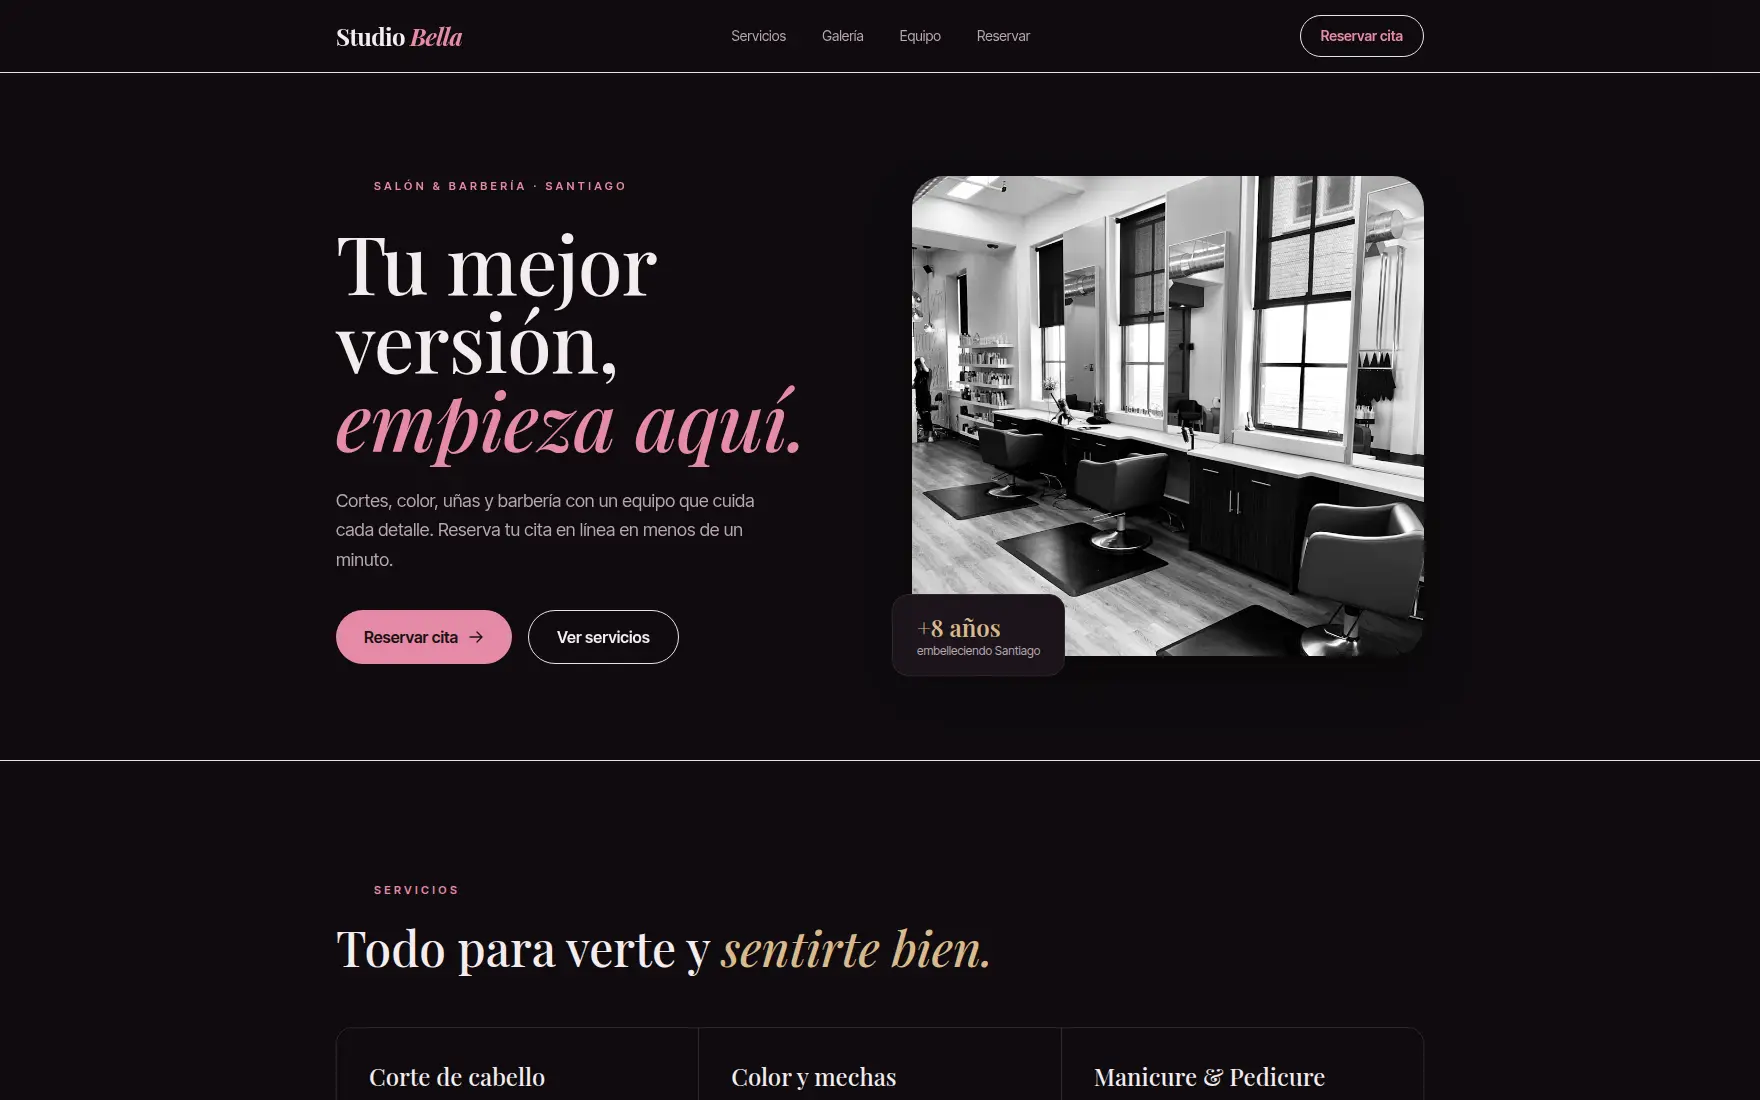
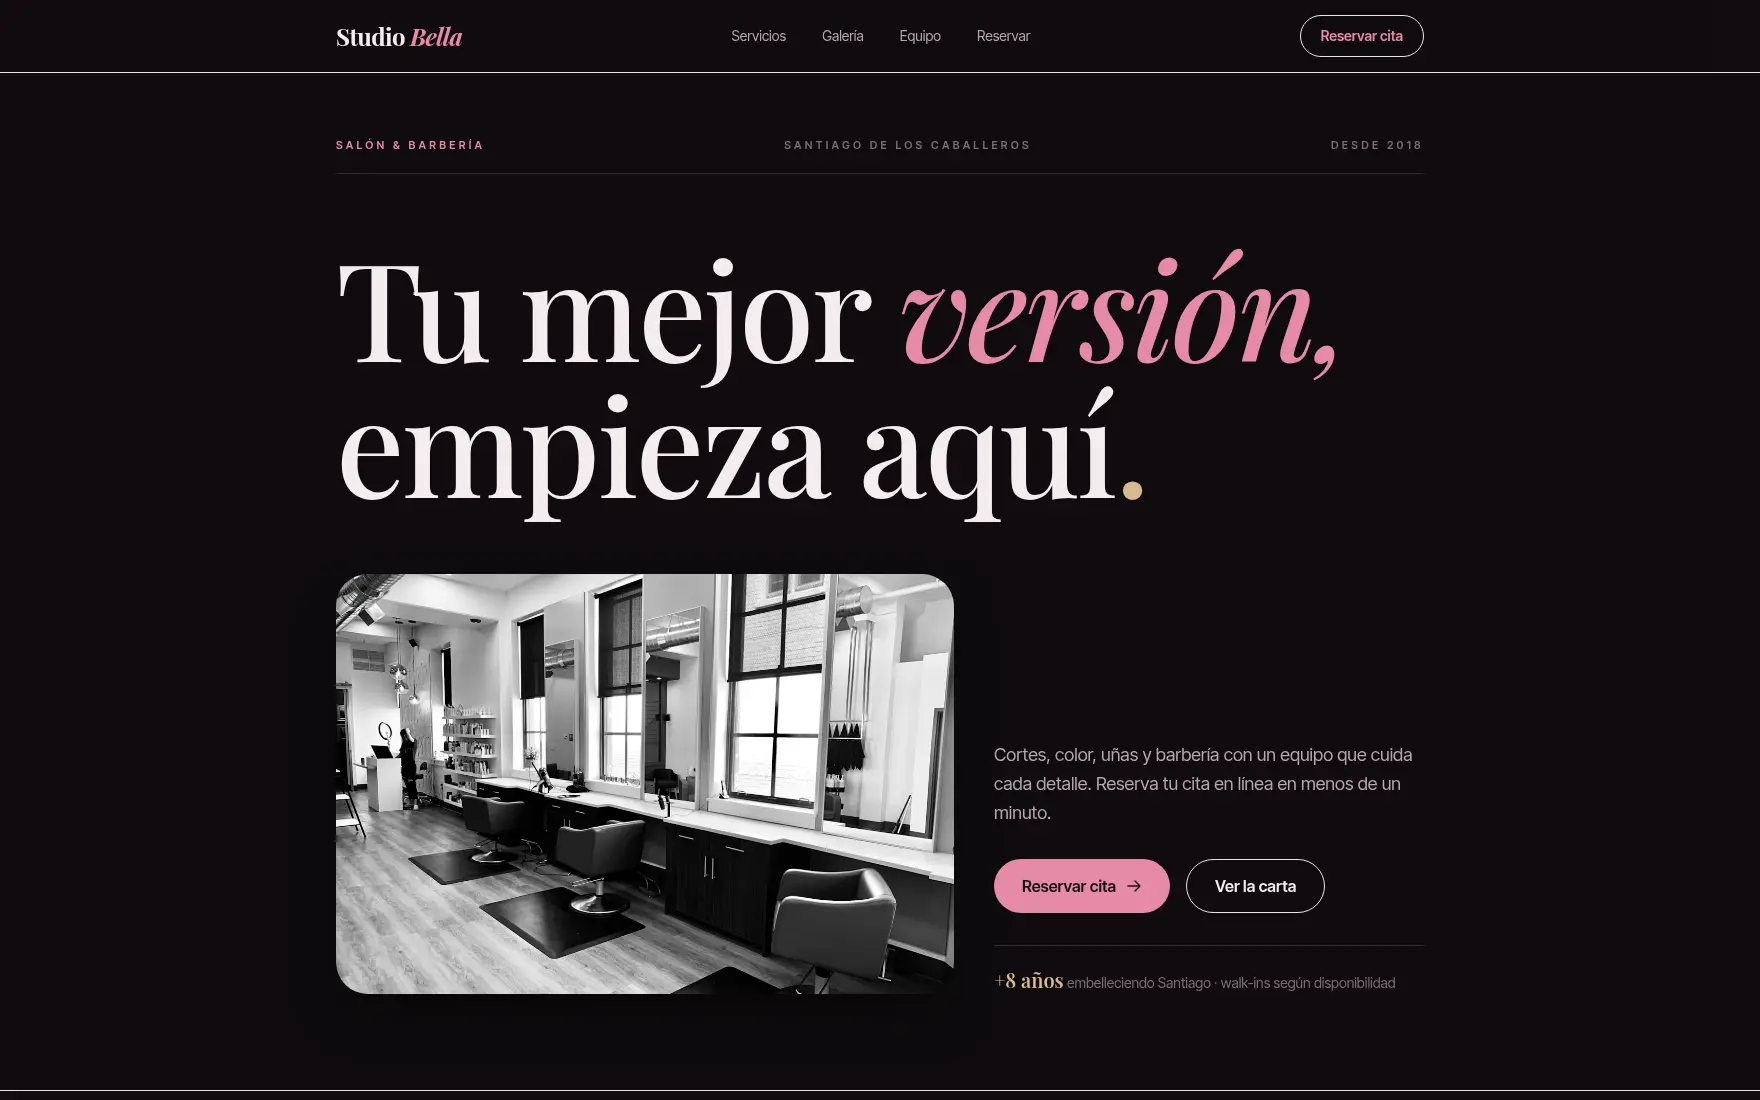
feat: salon Studio Bella rediseñado con silueta editorial (titular gigante + carta de servicios + tira de galeria) para romper el gemelo con AutoPro

diff --git a/app/demos/salon/page.tsx b/app/demos/salon/page.tsx
@@ -56,7 +56,7 @@ const EQUIPO: [string, string, string][] = [
 
 const GALERIA = [
   "https://images.unsplash.com/photo-1521590832167-7bcbfaa6381f?w=1000&q=80",
-  "https://images.unsplash.com/photo-1599387737838-626d2e3d5d3a?w=700&q=80",
+  "https://images.unsplash.com/photo-1604654894610-df63bc536371?w=700&q=80",
   "https://images.unsplash.com/photo-1562322140-8baeececf3df?w=700&q=80",
   "https://images.unsplash.com/photo-1487412947147-5cebf100ffc2?w=700&q=80",
 ];
@@ -117,42 +117,46 @@ export default function Page() {
         </div>
       </header>
 
-      {/* ── Hero ───────────────────────────────────────────────────────── */}
+      {/* ── Hero editorial: meta + titular a todo lo ancho + fila foto/copy ── */}
       <section id="inicio" className="relative overflow-hidden">
         <div className="pointer-events-none absolute -right-32 -top-40 h-[460px] w-[460px] rounded-full bg-[var(--rose)]/10 blur-[130px]" />
-        <div className="relative mx-auto max-w-6xl px-5 py-16 sm:px-8 md:py-24">
-          <div className="grid items-center gap-12 lg:grid-cols-2 lg:gap-16">
-            <div>
-              <div className="rise d1"><Eyebrow>Salón & Barbería · Santiago</Eyebrow></div>
-              <h1 className="rise d2 display mt-7 text-5xl font-medium leading-[0.98] tracking-[-0.01em] text-[var(--cream)] md:text-[5rem]">
-                Tu mejor versión,
-                <br />
-                <span className="italic text-[var(--rose)]">empieza aquí.</span>
-              </h1>
-              <p className="rise d3 mt-7 max-w-md text-lg leading-relaxed text-[var(--muted)]">
+        <div className="relative mx-auto max-w-6xl px-5 pb-20 pt-12 sm:px-8 md:pb-24 md:pt-16">
+          <div className="rise d1 flex items-center justify-between gap-4 border-b border-[var(--line)] pb-5 text-[0.68rem] font-semibold uppercase tracking-[0.3em] text-[var(--faint)]">
+            <span className="text-[var(--rose)]">Salón & Barbería</span>
+            <span className="hidden sm:block">Santiago de los Caballeros</span>
+            <span>Desde 2018</span>
+          </div>
+          <h1 className="rise d2 display mt-12 text-6xl font-medium leading-[0.95] tracking-[-0.02em] text-[var(--cream)] sm:text-7xl md:mt-16 md:text-[7rem] lg:text-[8.5rem]">
+            Tu mejor <span className="italic text-[var(--rose)]">versión,</span>
+            <br />
+            empieza aquí<span className="text-[var(--gold)]">.</span>
+          </h1>
+          <div className="mt-12 grid gap-10 md:mt-16 md:grid-cols-12 md:items-end">
+            <div className="rise d2 md:col-span-7">
+              <img
+                src="https://images.unsplash.com/photo-1560066984-138dadb4c035?w=1200&q=80"
+                alt="Interior del salón de belleza"
+                className="h-[300px] w-full rounded-[2rem] object-cover shadow-2xl shadow-black/50 md:h-[420px]"
+              />
+            </div>
+            <div className="rise d3 md:col-span-5">
+              <p className="text-lg leading-relaxed text-[var(--muted)]">
                 Cortes, color, uñas y barbería con un equipo que cuida cada detalle. Reserva tu cita en línea en menos de
                 un minuto.
               </p>
-              <div className="rise d3 mt-9 flex flex-wrap gap-4">
+              <div className="mt-8 flex flex-wrap gap-4">
                 <a href="#reservar" className="group inline-flex items-center gap-2.5 rounded-full bg-[var(--rose)] px-7 py-3.5 font-semibold text-[#1a0f14] transition-all hover:bg-[var(--gold)]">
                   Reservar cita
                   <span className="transition-transform group-hover:translate-x-0.5"><Arrow /></span>
                 </a>
                 <a href="#servicios" className="inline-flex items-center gap-2 rounded-full border border-[var(--cream)]/25 px-7 py-3.5 font-semibold text-[var(--cream)] transition-colors hover:border-[var(--cream)]/50 hover:bg-[var(--cream)]/5">
-                  Ver servicios
+                  Ver la carta
                 </a>
               </div>
-            </div>
-            <div className="rise d2 relative">
-              <img
-                src="https://images.unsplash.com/photo-1560066984-138dadb4c035?w=1200&q=80"
-                alt="Interior del salón de belleza"
-                className="h-[380px] w-full rounded-[2rem] object-cover shadow-2xl shadow-black/50 md:h-[480px]"
-              />
-              <div className="absolute -bottom-5 -left-5 rounded-2xl border border-[var(--line)] bg-[var(--panel)] px-6 py-4">
-                <p className="display text-2xl font-semibold text-[var(--gold)]">+8 años</p>
-                <p className="text-xs text-[var(--muted)]">embelleciendo Santiago</p>
-              </div>
+              <p className="mt-8 border-t border-[var(--line)] pt-5 text-sm text-[var(--faint)]">
+                <span className="display text-xl font-semibold text-[var(--gold)]">+8 años</span> embelleciendo Santiago ·
+                walk-ins según disponibilidad
+              </p>
             </div>
           </div>
         </div>
@@ -167,15 +171,17 @@ export default function Page() {
               Todo para verte y <span className="italic text-[var(--gold)]">sentirte bien.</span>
             </h2>
           </div>
-          <div className="grid gap-px overflow-hidden rounded-2xl border border-[var(--line)] bg-[var(--line)] sm:grid-cols-2 lg:grid-cols-3">
-            {SERVICIOS.map(([t, d, p]) => (
-              <div key={t} className="group flex flex-col bg-[var(--bg)] p-8 transition-colors hover:bg-[var(--panel)]">
-                <h3 className="display text-2xl font-medium text-[var(--cream)]">{t}</h3>
-                <p className="mt-3 flex-1 leading-relaxed text-[var(--muted)]">{d}</p>
-                <p className="mt-5 font-semibold text-[var(--rose)]">{p}</p>
+          <div className="border-t border-[var(--line)]">
+            {SERVICIOS.map(([t, d, p], i) => (
+              <div key={t} className="group grid gap-1.5 border-b border-[var(--line)] py-7 transition-colors hover:bg-[var(--panel)]/50 sm:grid-cols-12 sm:items-baseline sm:gap-6 sm:px-2">
+                <span className="text-xs tabular-nums text-[var(--faint)] sm:col-span-1">{String(i + 1).padStart(2, "0")}</span>
+                <h3 className="display text-2xl font-medium text-[var(--cream)] sm:col-span-4">{t}</h3>
+                <p className="leading-relaxed text-[var(--muted)] sm:col-span-5">{d}</p>
+                <p className="font-semibold text-[var(--rose)] sm:col-span-2 sm:text-right">{p}</p>
               </div>
             ))}
           </div>
+          <p className="mt-6 text-sm text-[var(--faint)]">Precios de referencia. Tu estilista confirma el costo exacto según largo y tratamiento.</p>
         </div>
       </section>
 
@@ -188,12 +194,15 @@ export default function Page() {
               Nuestro trabajo habla solo
             </h2>
           </div>
-          <div className="grid grid-cols-2 gap-3 md:grid-cols-4 md:gap-4">
+          <div className="-mx-5 flex snap-x snap-mandatory gap-4 overflow-x-auto px-5 pb-4 sm:-mx-8 sm:px-8" aria-label="Galería de trabajos">
             {GALERIA.map((src, i) => (
-              <div key={src} className={`group relative overflow-hidden rounded-2xl border border-[var(--line)] ${i === 0 ? "col-span-2 row-span-2" : ""}`}>
-                <img src={src} alt="Trabajo del salón" loading="lazy" className={`h-full w-full object-cover transition-transform duration-500 group-hover:scale-[1.06] ${i === 0 ? "min-h-[300px]" : "min-h-[145px]"}`} />
-                <div className="absolute inset-0 bg-gradient-to-t from-[var(--bg)]/50 to-transparent opacity-0 transition-opacity group-hover:opacity-100" />
-              </div>
+              <img
+                key={src}
+                src={src}
+                alt="Trabajo del salón"
+                loading="lazy"
+                className={`h-72 shrink-0 snap-center rounded-2xl border border-[var(--line)] object-cover md:h-96 ${i % 2 === 0 ? "w-[70%] sm:w-[460px]" : "w-[55%] sm:w-[320px]"}`}
+              />
             ))}
           </div>
         </div>